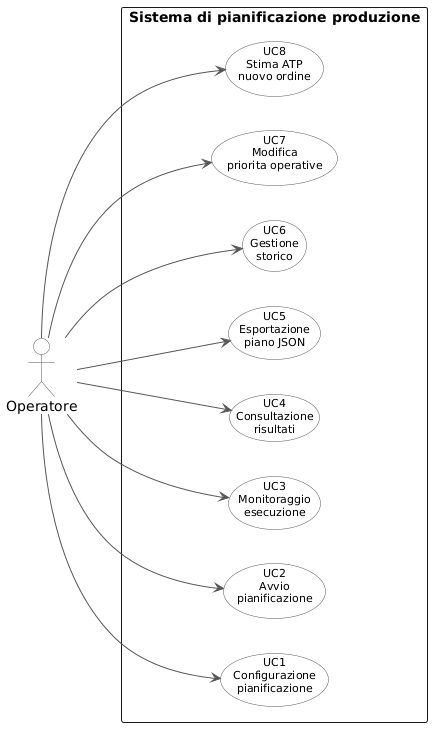
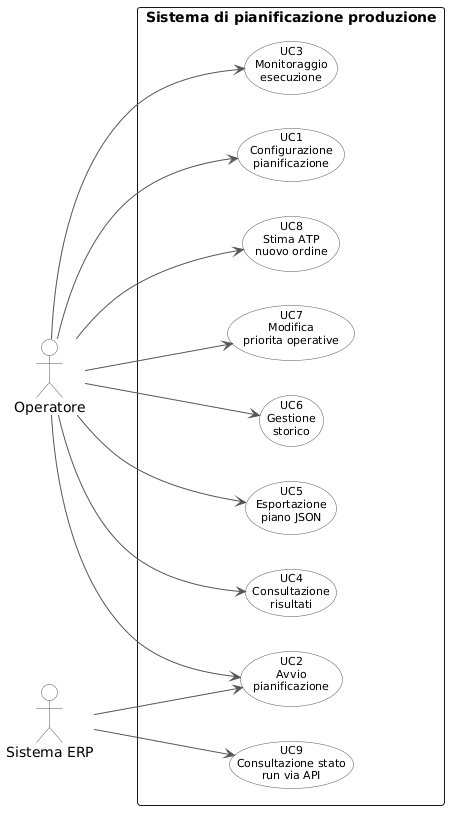
aggiornati uc

diff --git a/chapters/4_requirement_analysis.tex b/chapters/4_requirement_analysis.tex
@@ -3,11 +3,16 @@
 
 \section{Analisi degli utenti}
 
-Il sistema sviluppato nel contesto dello stage è un'applicazione desktop realizzata in Qt che consente di configurare, avviare e consultare pianificazioni di produzione generate tramite un solver di schedulazione a capacità finita basato su Google OR-Tools.
+Il sistema sviluppato nel contesto dello stage è un modulo di schedulazione C++ che espone la propria logica attraverso due interfacce principali: un'applicazione desktop basata su Qt (\texttt{erpai\_ui}), utilizzata per configurare, avviare e analizzare le pianificazioni durante lo sviluppo e il testing, e un server HTTP basato su Drogon (\texttt{erpai\_http}), attraverso cui il sistema gestionale ERP in PHP integra il solver in produzione.
 
-L'utente che interagisce con il sistema viene indicato come \textbf{Operatore}. Con questo termine si intende qualsiasi persona autorizzata a usare il tool, sia per l'avvio di una pianificazione sia per la consultazione dei risultati, dello storico e dei dati di supporto. Il sistema non viene modellato come attore: ogni caso d'uso è sempre attivato da un'azione dell'Operatore.
+Il sistema riconosce due attori:
 
-L'operatore di riferimento è tipicamente una figura tecnica o semi-tecnica, abituata a lavorare con strumenti gestionali e pannelli di monitoraggio. Di conseguenza l'interfaccia deve privilegiare chiarezza, immediatezza e coerenza tra le varie viste, in particolare nelle schermate di configurazione, di monitoraggio e di analisi del piano.
+\begin{itemize}
+    \item \textbf{Operatore}: figura tecnica o semi-tecnica autorizzata a interagire con l'interfaccia Qt per configurare i parametri, avviare pianificazioni e analizzarne i risultati. È il soggetto principale della maggior parte dei casi d'uso descritti nel presente capitolo.
+    \item \textbf{Sistema ERP}: applicazione PHP che, tramite l'API HTTP, avvia pianificazioni in modo automatizzato e ne ottiene i risultati senza intervento umano diretto. Partecipa esclusivamente alla specializzazione UC2.B dell'avvio pianificazione.
+\end{itemize}
+
+L'Operatore è tipicamente abituato a lavorare con strumenti gestionali e pannelli di monitoraggio. Di conseguenza l'interfaccia deve privilegiare chiarezza, immediatezza e coerenza tra le varie viste, in particolare nelle schermate di configurazione, di monitoraggio e di analisi del piano.
 
 \section{Casi d'uso}
 
@@ -69,9 +74,14 @@ Le funzionalità del sistema sono organizzate nei seguenti casi d'uso.
         \item UC1.1 -- Inserimento data di inizio pianificazione
         \item UC1.2 -- Inserimento timeout del solver
         \item UC1.3 -- Selezione strategia di risoluzione
+        \item UC1.4 -- Selezione modalità di esecuzione del solver
     \end{itemize}
 
     \item \textbf{UC2 -- Avvio pianificazione}
+    \begin{itemize}
+        \item UC2.A -- Avvio da interfaccia Qt (specializzazione per Operatore)
+        \item UC2.B -- Avvio da API HTTP (specializzazione per Sistema ERP)
+    \end{itemize}
 
     \item \textbf{UC3 -- Monitoraggio esecuzione}
     \begin{itemize}
@@ -98,6 +108,8 @@ Le funzionalità del sistema sono organizzate nei seguenti casi d'uso.
     \item \textbf{UC7 -- Modifica priorità operative}
 
     \item \textbf{UC8 -- Stima ATP per nuovo ordine}
+
+    \item \textbf{UC9 -- Consultazione stato pianificazione via API}
 \end{itemize}
 
 \subsection{Dettaglio dei casi d'uso}
@@ -112,6 +124,7 @@ Le funzionalità del sistema sono organizzate nei seguenti casi d'uso.
         \item L'Operatore imposta la data di inizio della pianificazione $\rightarrow$ UC1.1.
         \item L'Operatore configura il timeout massimo del solver $\rightarrow$ UC1.2.
         \item L'Operatore seleziona la strategia di risoluzione da applicare $\rightarrow$ UC1.3.
+        \item L'Operatore sceglie la modalità di esecuzione del solver $\rightarrow$ UC1.4.
     \end{enumerate}
     \item \textbf{Precondizioni:}
     \begin{itemize}
@@ -127,6 +140,7 @@ Le funzionalità del sistema sono organizzate nei seguenti casi d'uso.
         \item UC1.1 -- Inserimento data di inizio pianificazione.
         \item UC1.2 -- Inserimento timeout del solver.
         \item UC1.3 -- Selezione strategia di risoluzione.
+        \item UC1.4 -- Selezione modalità di esecuzione del solver.
     \end{itemize}
     \item \textbf{Trigger:} l'Operatore vuole preparare una nuova esecuzione del solver.
 \end{itemize}
@@ -198,14 +212,34 @@ Le funzionalità del sistema sono organizzate nei seguenti casi d'uso.
     \item \textbf{Trigger:} l'Operatore vuole scegliere il metodo di risoluzione più adatto al contesto corrente.
 \end{itemize}
 
-\subsubsection{Avvio pianificazione}
-
-\paragraph{UC2 -- Avvio pianificazione}
+\paragraph{UC1.4 -- Selezione modalità di esecuzione del solver}
 \begin{itemize}
     \item \textbf{Attore principale:} Operatore.
     \item \textbf{Scenario principale:}
     \begin{enumerate}
-        \item L'Operatore preme il pulsante di avvio.
+        \item L'Operatore accede al selettore della modalità di esecuzione.
+        \item L'Operatore sceglie se eseguire la fase di calcolo CP-SAT localmente oppure delegarla a un server remoto tramite gRPC.
+    \end{enumerate}
+    \item \textbf{Precondizioni:}
+    \begin{itemize}
+        \item l'applicazione è disponibile e raggiungibile.
+        \item l'Operatore si trova nella schermata di configurazione $\rightarrow$ UC1.
+    \end{itemize}
+    \item \textbf{Postcondizioni:}
+    \begin{itemize}
+        \item la modalità di esecuzione risulta impostata nel form di configurazione.
+    \end{itemize}
+    \item \textbf{Trigger:} l'Operatore vuole decidere se delegare il calcolo a un server dedicato o eseguirlo localmente.
+\end{itemize}
+
+\subsubsection{Avvio pianificazione}
+
+\paragraph{UC2 -- Avvio pianificazione}
+\begin{itemize}
+    \item \textbf{Attore principale:} Operatore (tramite interfaccia Qt) o Sistema ERP (tramite API HTTP).
+    \item \textbf{Scenario principale:}
+    \begin{enumerate}
+        \item Il sistema riceve la richiesta di avvio.
         \item Il sistema carica i dati di produzione dal database ERP.
         \item Il sistema costruisce il modello CP-SAT e lo sottopone al solver.
         \item Il solver produce il piano di produzione.
@@ -213,7 +247,7 @@ Le funzionalità del sistema sono organizzate nei seguenti casi d'uso.
     \end{enumerate}
     \item \textbf{Precondizioni:}
     \begin{itemize}
-        \item l'applicazione è disponibile e raggiungibile.
+        \item l'interfaccia di accesso è disponibile e raggiungibile.
         \item la configurazione è stata completata $\rightarrow$ UC1.
         \item il database ERP è accessibile e contiene dati di produzione validi.
     \end{itemize}
@@ -223,7 +257,12 @@ Le funzionalità del sistema sono organizzate nei seguenti casi d'uso.
         \item l'esecuzione è registrata nello storico locale con esito positivo.
     \end{itemize}
     \item \textbf{Scenario alternativo:} il solver restituisce una soluzione non ammissibile (stato \texttt{INFEASIBLE}) oppure viene interrotto per timeout senza aver trovato alcuna soluzione; il sistema registra l'errore nei log, aggiorna lo storico con esito negativo e non produce alcun piano.
-    \item \textbf{Trigger:} l'Operatore vuole calcolare una nuova soluzione di pianificazione.
+    \item \textbf{Specializzazioni:}
+    \begin{itemize}
+        \item UC2.A -- Avvio da interfaccia Qt.
+        \item UC2.B -- Avvio da API HTTP.
+    \end{itemize}
+    \item \textbf{Trigger:} l'Operatore o il Sistema ERP richiede il calcolo di una nuova soluzione di pianificazione.
 \end{itemize}
 
 \begin{figure}[H]
@@ -232,6 +271,50 @@ Le funzionalità del sistema sono organizzate nei seguenti casi d'uso.
     \caption{UC2 -- Avvio pianificazione}
     \label{fig:uc2}
 \end{figure}
+
+\paragraph{UC2.A -- Avvio da interfaccia Qt}
+\begin{itemize}
+    \item \textbf{Attore principale:} Operatore.
+    \item \textbf{Scenario principale:}
+    \begin{enumerate}
+        \item L'Operatore preme il pulsante di avvio nell'interfaccia Qt.
+        \item Il sistema esegue il flusso descritto in UC2.
+        \item L'Operatore può seguire l'avanzamento in tempo reale tramite la vista di monitoraggio $\rightarrow$ UC3.
+    \end{enumerate}
+    \item \textbf{Precondizioni:}
+    \begin{itemize}
+        \item l'applicazione Qt è disponibile e raggiungibile.
+        \item la configurazione è stata completata $\rightarrow$ UC1.
+    \end{itemize}
+    \item \textbf{Postcondizioni:}
+    \begin{itemize}
+        \item il piano è disponibile per la consultazione nell'interfaccia Qt $\rightarrow$ UC4.
+    \end{itemize}
+    \item \textbf{Trigger:} l'Operatore avvia manualmente la pianificazione dall'interfaccia grafica.
+\end{itemize}
+
+\paragraph{UC2.B -- Avvio da API HTTP}
+\begin{itemize}
+    \item \textbf{Attore principale:} Sistema ERP.
+    \item \textbf{Scenario principale:}
+    \begin{enumerate}
+        \item Il Sistema ERP invia una richiesta HTTP POST all'endpoint \texttt{/api/planning/run} con i parametri della pianificazione: data di inizio, timeout, modalità di esecuzione del solver (\texttt{use\_remote\_solver}) e altri parametri avanzati facoltativi.
+        \item Il server accetta la richiesta in modo asincrono e risponde immediatamente con HTTP 202 Accepted, restituendo un identificativo univoco del run (\texttt{run\_id}).
+        \item Il sistema esegue il flusso descritto in UC2 in background.
+        \item Il Sistema ERP utilizza il \texttt{run\_id} ricevuto per monitorare lo stato del run $\rightarrow$ UC9.
+    \end{enumerate}
+    \item \textbf{Precondizioni:}
+    \begin{itemize}
+        \item il server HTTP è disponibile e raggiungibile.
+        \item il database ERP è accessibile e contiene dati di produzione validi.
+    \end{itemize}
+    \item \textbf{Postcondizioni:}
+    \begin{itemize}
+        \item il Sistema ERP ha ricevuto il \texttt{run\_id} e la pianificazione è in esecuzione in background.
+        \item l'esecuzione sarà registrata nello storico locale al completamento.
+    \end{itemize}
+    \item \textbf{Trigger:} il Sistema ERP richiede automaticamente la pianificazione tramite l'API di produzione.
+\end{itemize}
 
 \subsubsection{Monitoraggio esecuzione}
 
@@ -603,6 +686,37 @@ Le funzionalità del sistema sono organizzate nei seguenti casi d'uso.
     \label{fig:uc8}
 \end{figure}
 
+\subsubsection{Consultazione stato pianificazione via API}
+
+\paragraph{UC9 -- Consultazione stato pianificazione via API}
+\begin{itemize}
+    \item \textbf{Attore principale:} Sistema ERP.
+    \item \textbf{Scenario principale:}
+    \begin{enumerate}
+        \item Il Sistema ERP invia una richiesta HTTP GET all'endpoint \texttt{/api/planning/status/\{run\_id\}} con l'identificativo del run ricevuto in UC2.B.
+        \item Il server restituisce lo stato corrente del run (\texttt{Queued}, \texttt{Running}, \texttt{Finished} o \texttt{Failed}) e i KPI disponibili (makespan, lateness, numero di task schedulati).
+        \item Se il run è ancora in corso, il Sistema ERP ripete la richiesta dopo un intervallo fino al completamento.
+        \item Quando lo stato è \texttt{Finished}, il Sistema ERP elabora i dati del piano ricevuti nella risposta.
+    \end{enumerate}
+    \item \textbf{Precondizioni:}
+    \begin{itemize}
+        \item il server HTTP è disponibile e raggiungibile.
+        \item il Sistema ERP dispone del \texttt{run\_id} ottenuto in UC2.B.
+    \end{itemize}
+    \item \textbf{Postcondizioni:}
+    \begin{itemize}
+        \item il Sistema ERP ha ricevuto lo stato aggiornato e i KPI del run.
+    \end{itemize}
+    \item \textbf{Trigger:} il Sistema ERP vuole verificare l'avanzamento o il completamento di una pianificazione avviata via API.
+\end{itemize}
+
+\begin{figure}[H]
+    \centering
+    \includegraphics[width=0.65\columnwidth]{img/usecase/uc9.png}
+    \caption{UC9 -- Consultazione stato pianificazione via API}
+    \label{fig:uc9}
+\end{figure}
+
 \newpage
 
 \section{Tracciamento dei requisiti}
@@ -681,6 +795,14 @@ RFN-17 & Modifica delle priorità operative & UC7 & N \\
 \hline
 RFN-18 & Stima ATP per nuovi ordini & UC8 & N \\
 \hline
+RFN-19 & Selezione della modalità di esecuzione del solver (locale o remota via gRPC) & UC1.4 & N \\
+\hline
+RFN-20 & Avvio della pianificazione da interfaccia Qt & UC2.A & N \\
+\hline
+RFN-21 & Avvio della pianificazione tramite API HTTP da parte del Sistema ERP & UC2.B & N \\
+\hline
+RFN-22 & Consultazione dello stato e dei KPI di un run via API HTTP & UC9 & N \\
+\hline
 
 \caption{Tabella del tracciamento dei requisiti funzionali.}
 \label{tab:requisiti_funzionali}
@@ -741,13 +863,15 @@ RQN-6 & Le esecuzioni devono essere tracciabili nello storico locale & UC6.1, UC
 
 RVN-1 & Il sistema deve essere sviluppato in linguaggio C++ & -- & N \\
 \hline
-RVN-2 & L'interfaccia grafica deve essere realizzata con Qt6 & -- & N \\
+RVN-2 & L'interfaccia grafica di debug e testing deve essere realizzata con Qt6 & -- & N \\
 \hline
 RVN-3 & Il solver di pianificazione deve utilizzare Google OR-Tools & UC2 & N \\
 \hline
 RVN-4 & L'esportazione dei dati deve avvenire in formato JSON & UC5 & N \\
 \hline
 RVN-5 & Lo storico locale deve essere persistito tramite SQLite & UC6.1, UC6.2 & N \\
+\hline
+RVN-6 & L'interfaccia HTTP di produzione deve essere realizzata con il framework Drogon & UC2.B & N \\
 \hline
 
 \caption{Tabella del tracciamento dei requisiti di vincolo.}

diff --git a/chapters/5_design_coding.tex b/chapters/5_design_coding.tex
@@ -6,7 +6,7 @@
 \section{Tecnologie e strumenti}
 \label{sec:tecnologie-strumenti}
 
-Il sistema è realizzato interamente in C++ ed è articolato in più componenti: un'applicazione desktop Qt, un nucleo di pianificazione condiviso e server opzionali (gRPC, HTTP) per l'integrazione remota. La scelta delle tecnologie è stata orientata da requisiti di prestazione, integrazione con l'ecosistema ERP esistente e supporto alla programmazione a vincoli.
+Il sistema è realizzato interamente in C++ ed è articolato in tre target applicativi che condividono un unico nucleo di pianificazione: un'applicazione desktop Qt usata come strumento di debug e testing durante lo sviluppo, un server HTTP Drogon come interfaccia REST di produzione verso l'ERP e un server gRPC opzionale per delegare la sola fase di calcolo a una macchina dedicata. La scelta delle tecnologie è stata orientata da requisiti di prestazione, integrazione con l'ecosistema ERP esistente e supporto alla programmazione a vincoli.
 
 \subsection{Linguaggi e strumenti di sviluppo}
 \label{subsec:linguaggi}
@@ -17,7 +17,7 @@ C++20 è lo standard ISO del linguaggio C++ adottato nel progetto (requisito RVN
 
 \subsubsection{Qt6}
 
-Qt è un framework multipiattaforma per lo sviluppo di applicazioni desktop, mantenuto da Qt Group. Qt6 è la versione adottata per la realizzazione dell'interfaccia grafica del sistema (requisito RVN-2). Tra le sue caratteristiche fondamentali per il progetto:
+Qt è un framework multipiattaforma per lo sviluppo di applicazioni desktop, mantenuto da Qt Group. Qt6 è la versione adottata per il target \texttt{erpai\_ui}, l'applicazione desktop sviluppata principalmente come strumento di debug e testing durante le sessioni di sviluppo. Grazie alla sua interfaccia grafica interattiva, permette di configurare e avviare pianificazioni, visualizzare in tempo reale il diagramma di Gantt, i KPI e i log del solver, e riprodurre scenari di test senza ricorrere alla pipeline HTTP di produzione. Tra le caratteristiche fondamentali di Qt6 per il progetto:
 
 \begin{itemize}
     \item \textbf{Signals \& Slots}: meccanismo di comunicazione tra oggetti che consente di connettere eventi (\textit{signals}) emessi da un oggetto a metodi (\textit{slots}) di un altro, anche tra thread diversi, grazie alle \textit{queued connections} che garantiscono la thread-safety degli aggiornamenti alla UI.
@@ -28,7 +28,7 @@ Qt è un framework multipiattaforma per lo sviluppo di applicazioni desktop, man
 
 \subsubsection{CMake}
 
-CMake è un sistema di build open source e multipiattaforma che genera file di build nativi (Makefile, Ninja, progetti Visual Studio) a partire da una descrizione dichiarativa in file \texttt{CMakeLists.txt}. Nel progetto CMake gestisce la compilazione dei quattro target principali (\texttt{erpai\_ui}, \texttt{erpai\_daemon}, \texttt{erpai\_grpc\_solver}, \texttt{erpai\_http}) e le dipendenze verso OR-Tools, MariaDB Connector/C++, Qt6 e le librerie gRPC/Protobuf.
+CMake è un sistema di build open source e multipiattaforma che genera file di build nativi (Makefile, Ninja, progetti Visual Studio) a partire da una descrizione dichiarativa in file \texttt{CMakeLists.txt}. Nel progetto CMake gestisce la compilazione dei tre target principali (\texttt{erpai\_ui}, \texttt{erpai\_grpc\_solver}, \texttt{erpai\_http}) e le dipendenze verso OR-Tools, MariaDB Connector/C++, Qt6, Drogon e le librerie gRPC/Protobuf.
 
 \subsection{Librerie}
 \label{subsec:librerie}
@@ -52,7 +52,15 @@ MariaDB Connector/C++ è il driver ufficiale per la connessione a database Maria
 
 \subsubsection{gRPC e Protocol Buffers}
 
-gRPC è un framework open source per chiamate a procedure remote ad alte prestazioni, sviluppato da Google. Utilizza Protocol Buffers come formato di serializzazione dei messaggi. Nel progetto, il file \texttt{solver\_service.proto} definisce il contratto dell'interfaccia del solver remoto: il servizio \texttt{PlanningService} espone un metodo \texttt{RunPlanning} che accetta una configurazione di run e restituisce in streaming gli aggiornamenti di stato. Questo componente consente di eseguire il solver su un server dedicato e di interrogarlo dall'applicazione Qt tramite la classe \texttt{RemoteSolverClient}.
+gRPC è un framework open source per chiamate a procedure remote ad alte prestazioni, sviluppato da Google. Utilizza Protocol Buffers come formato di serializzazione binaria dei messaggi.
+
+Nel progetto, gRPC non è un'interfaccia generica: è l'opzione di deployment che consente di delegare \textbf{esclusivamente la fase di calcolo CP-SAT} a un server dedicato. Il target \texttt{erpai\_grpc\_solver} espone il servizio \texttt{PlanningService} con il metodo \texttt{RunPlanning}, che riceve il modello di scheduling già costruito dal chiamante e ne esegue la risoluzione, restituendo in streaming gli aggiornamenti di stato (KPI, log, soluzione incumbent).
+
+In questo scenario, il modulo chiamante — che sia il server HTTP, il daemon o l'applicazione Qt — continua a eseguire internamente tutte le fasi a monte: caricamento dei dati da MariaDB, costruzione del modello CP-SAT tramite \texttt{ModelBuilder} e orchestrazione del flusso tramite \texttt{PlanningRunner}. La delega al server gRPC riguarda unicamente la parte computazionalmente più onerosa, permettendo di isolarla su una macchina ad alte prestazioni senza modificare la logica applicativa del chiamante. La classe \texttt{RemoteSolverClient} incapsula questa comunicazione in modo trasparente.
+
+\subsubsection{Drogon}
+
+Drogon è un framework C++ per la realizzazione di server HTTP e WebSocket ad alte prestazioni. Nel progetto viene impiegato per il target \texttt{erpai\_http}, l'interfaccia REST di produzione attraverso cui l'applicazione ERP in PHP comunica con il solver. Le route esposte permettono di avviare una pianificazione, leggere il piano risultante e consultare lo storico delle esecuzioni. Grazie alla sua architettura asincrona e non bloccante basata su coroutine, Drogon gestisce richieste concorrenti senza penalizzare il tempo di risposta.
 
 \subsection{Containerizzazione}
 \label{subsec:docker}
@@ -73,16 +81,15 @@ SQLite è una libreria C che implementa un motore di database SQL embedded, senz
 
 Il sistema è progettato attorno a un \textbf{nucleo condiviso} (\texttt{core}) separato da qualsiasi dipendenza verso UI, database o protocollo di comunicazione. Questo nucleo espone \texttt{PlanningRunner} come orchestratore del flusso di pianificazione e \texttt{IPlanningObserver} come punto di estensione per la distribuzione degli eventi.
 
-Quattro target applicativi condividono lo stesso nucleo:
+Tre target applicativi condividono lo stesso nucleo:
 
 \begin{itemize}
-    \item \textbf{erpai\_ui}: applicazione desktop Qt, entry point principale per l'Operatore.
-    \item \textbf{erpai\_daemon}: applicazione console, per esecuzioni headless o da script.
-    \item \textbf{erpai\_grpc\_solver}: server gRPC, per integrazione remota con altri sistemi.
-    \item \textbf{erpai\_http}: server HTTP, alternativa REST-based all'interfaccia gRPC.
+    \item \textbf{erpai\_ui}: applicazione desktop Qt, sviluppata come strumento di debug e testing durante lo sviluppo; fornisce una GUI interattiva per avviare pianificazioni e analizzarne i risultati in tempo reale.
+    \item \textbf{erpai\_http}: server HTTP basato su Drogon, interfaccia REST di produzione per l'integrazione con l'applicazione ERP in PHP.
+    \item \textbf{erpai\_grpc\_solver}: server gRPC opzionale che, se attivo, riceve il modello CP-SAT già costruito dal modulo chiamante ed esegue la sola fase di calcolo su una macchina dedicata.
 \end{itemize}
 
-Questa separazione garantisce che la logica di pianificazione possa essere testata, eseguita e integrata indipendentemente dal canale di accesso, rispettando il principio di separazione delle responsabilità.
+Questa separazione garantisce che la logica di pianificazione possa essere testata, eseguita e integrata indipendentemente dal canale di accesso, rispettando il principio di separazione delle responsabilità. In entrambi i casi — che il transport layer sia HTTP o gRPC — il caricamento dei dati, la costruzione del modello e l'orchestrazione del flusso avvengono nel modulo principale; la variabile è solo come e dove viene eseguita la fase di risoluzione CP-SAT.
 
 \subsection{Pipeline di pianificazione}
 \label{subsec:pipeline}
@@ -150,9 +157,8 @@ public:
 \label{listing:observer}
 \end{listing}
 
-Quattro implementazioni concrete dell'interfaccia vengono utilizzate nel progetto:
+Tre implementazioni concrete dell'interfaccia vengono utilizzate nel progetto:
 \begin{itemize}
-    \item \texttt{ConsoleObserver}: stampa gli eventi su stdout, usata dal target daemon.
     \item \texttt{SqliteRunObserver}: persiste i dati del run nello storico SQLite locale.
     \item \texttt{HttpPlanningObserver}: invia callback HTTP al termine di ogni fase.
     \item L'implementazione Qt nel \texttt{PlannerWorker}: traduce le notifiche in segnali Qt, instradati alla UI tramite queued connections.
@@ -219,7 +225,6 @@ Il codice sorgente è organizzato in moduli con responsabilità ben definite, ri
 \begin{minted}{text}
 src/
 +-- apps/
-|   +-- daemon/       # target console (headless)
 |   +-- grpc_server/  # target server gRPC
 |   +-- http/         # target server HTTP REST
 |   +-- ui/           # target applicazione desktop Qt

diff --git a/chapters/3_stage_desc.tex b/chapters/3_stage_desc.tex
@@ -57,9 +57,11 @@ Il flusso di sviluppo adottato segue il modello \textit{GitFlow}, articolato nei
 
 Come anticipato, il progetto proposto dal cliente presenta un elevato livello di complessità e richiede uno sviluppo continuativo che coinvolge il team da diversi mesi. L'attività svolta durante il periodo di stage si è concentrata in particolare sullo sviluppo del \textit{solver di scheduling}, ovvero il componente software responsabile della risoluzione di problemi di ottimizzazione legati alla pianificazione delle attività e all'allocazione delle risorse disponibili.
 
-Il solver costituisce il nucleo computazionale del sistema e ha il compito di individuare soluzioni ottimali o quasi ottimali nel rispetto di un insieme di vincoli definiti dal dominio applicativo. Per consentirne l'integrazione con il prodotto principale, il modulo viene esposto tramite API sviluppate utilizzando il framework Drogon. Questa architettura permette all'applicazione principale, realizzata in PHP, di interagire con il solver in modo trasparente e indipendente dall'implementazione sottostante.
+Il solver costituisce il nucleo computazionale del sistema e ha il compito di individuare soluzioni ottimali o quasi ottimali nel rispetto di un insieme di vincoli definiti dal dominio applicativo. Per consentirne l'integrazione con l'applicazione principale — realizzata in PHP — il modulo è esposto tramite un'API REST sviluppata con il framework Drogon, che rappresenta l'interfaccia di produzione principale: riceve la richiesta di pianificazione, esegue l'intero flusso (caricamento dati ERP, costruzione del modello, risoluzione) e restituisce il piano al chiamante.
 
-Parallelamente allo sviluppo del modulo, durante lo stage è stata realizzata un'applicazione desktop basata su Qt con finalità di debug e testing. Tale strumento si è rivelato particolarmente utile per verificare il corretto funzionamento degli algoritmi implementati, facilitare l'individuazione di eventuali anomalie e velocizzare le attività di sviluppo.
+Parallelamente allo sviluppo del modulo, durante lo stage è stata realizzata un'applicazione desktop basata su Qt con finalità di debug e testing. Grazie alla sua interfaccia grafica interattiva, questo strumento ha permesso di visualizzare in tempo reale il diagramma di Gantt, i KPI e i log del solver durante le sessioni di sviluppo, facilitando l'individuazione di anomalie e velocizzando le iterazioni implementative.
+
+Il sistema prevede inoltre la possibilità di delegare la sola fase di calcolo CP-SAT a un server dedicato tramite gRPC: in questo scenario il modulo principale continua a occuparsi del caricamento dei dati, della costruzione del modello e dell'orchestrazione del flusso, delegando unicamente la risoluzione al server remoto.
 
 La scelta del linguaggio C++ per l'implementazione del solver è stata motivata dalle elevate prestazioni offerte e dall'efficienza nella gestione di strutture dati e algoritmi complessi. Queste caratteristiche risultano particolarmente importanti in un contesto di scheduling, nel quale è necessario affrontare problemi di ottimizzazione di grandi dimensioni e caratterizzati da numerosi vincoli.
 
